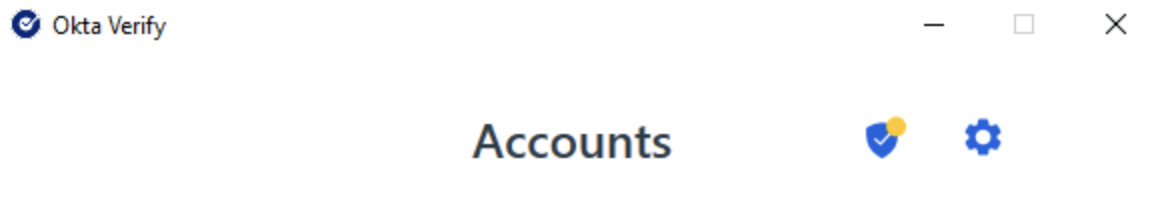
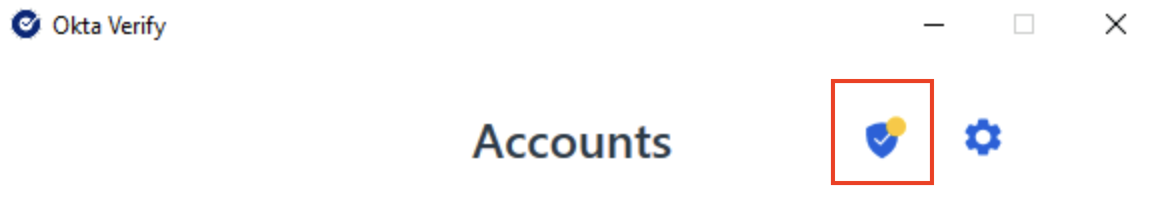
Marc and Keith - picky like cactus

Changed region(s): [[0.715, 0.375, 0.8083, 0.8942]]

diff --git a/04-security.md b/04-security.md
@@ -2,14 +2,6 @@ In this lab, you will unlock the combined power of Okta Verify and FastPass. You
 
 ## Setup Okta FastPass on the Virtual Desktop
 
-### Download Okta Verify on your Virtual Dekstop
-
-1. In the Okta Admin Console, select **Settings** > **Downloads**.
-1. Scroll down to **Okta Verify for Windows (.exe)** and click **Download General Availability**.
-1. Sign out of Okta and close the browser.
-
->**Tip:** Did you sign out of the Okta Admin Console?. I tend to forget sometimes.
-
 ### Install Okta Verify on your Virtual Desktop
 
 1. Open the **Okta Verify Setup** executable located in the Download folder shortcut on the desktop.
@@ -30,6 +22,7 @@ In this lab, you will unlock the combined power of Okta Verify and FastPass. You
 This will open your Okta tenant's sign-in page.
 
 1. Sign in with your **New Employee** username and password.
+1. Close the
 
 ## Configure Security Policies and FastPass
 
@@ -76,9 +69,9 @@ This will open your Okta tenant's sign-in page.
 ### Experience an Employee Passwordless Login
 
 1. In the Virtual Desktop, launch a Chrome browser window using the Guest profile.
-1. Enter your Okta tenant URL in the browser. You will be automatically authenticated to your End-User Dashboard.
-1. Sign out of your Okta tenant.
-1. At the Okta login, click **Sign in with Okta FastPass** . You will be signed in to the End-User Dashboard, no password required.
+1. Enter your Okta tenant URL in the browser. You will be automatically authenticated to your End-User Dashboard. No prompts, no typing, pure magic!
+1. Sign out of Okta.
+1. At the Okta login, click **Sign in with Okta FastPass**. Again, you will be signed in to the End-User Dashboard, no password required.
 
 ## Set Up User Behavioral Analytics
 
@@ -128,15 +121,15 @@ With device assurance policies you can check security-related device attributes 
 1. In the **High Security Apps** policy, select the **Applications** tab.
 1. Click **Add app**.
 1. Select the **Marketo** app, and then select the **Sign On** tab.
-1. For **Marketo**, click **Add**, and then click **Done**.
+1. For **Marketo**, click **Add**, and then click **Ok**.
 
     ![alt_text](images/011/auth_policy_high_security_apps_marketo_600.png "high security policy")
 
 ### Test the Device Assurance Policy
 
-The lab Virtual Desktops are running Windows 10.
+1. In the Okta Verify app **Accounts** page, click the device health icon to verify that your OS version is version 10.
 
-1. In the Okta Verify app **Accounts** page, click the device health icon. EDIT THIS
+    ![alt_text](images/011/fastpass_healthcheck_button_240.png "")
 
 1. In your Virtual Desktop environment, sign in as your new employee.
 1. Select the **Marketo** app. You will be denied.

diff --git a/05-governance.md b/05-governance.md
@@ -99,7 +99,7 @@ A request type can consist of multiple steps including Questions, Tasks, Approva
 
 ### As the New Employee, request access to an app
 
-1. Open a new Chrome window using the Guest profile
+1. In the Virtual Desktop, open a new Chrome window using the Guest profile.
 1. Sign in to your Okta tenant as the New Employee.
 1. In the End-User Dashboard, open the **Okta Access Requests** app.
 1. In the App Catalog, locate **Navan**, and then click **Request access**.
@@ -266,7 +266,7 @@ To verify that a certification campaign was created by the flowpack, you will ne
 
 1. In the Okta Admin Console select **Identity Governance** > **Access Certifications**.
 1. Verify that there is **Campaign** whose name starts with **Title Change:**.
-1. Click on the **Title Change:**campaign to see an overview of the campaign.
+1. Click on the **Title Change:** campaign to see an overview of the campaign.
 
 The page provides an overview of the campaign, the progress of the campaign, and the items to be reviewed. An administrator can use this page to manage the execution of a campaign. They can see the progress and any items still outstanding. They can reassign one or more items. They can also prematurely end the campaign.
 

diff --git a/01-introduction.md b/01-introduction.md
@@ -1,6 +1,6 @@
 ## Welcome
 
-*Lab guide version: 0.10.17.02*
+*Lab guide version: 0.10.18.01*
 
 Step into the Future of Workforce Identity Management with Okta!
 
@@ -34,7 +34,7 @@ As part of the provisioning process for your Okta Workforce Identity Cloud tenan
       |![virtual desktop](images/011/launch_virtual_desktop.png "Launch VD")| This will take about 10 minutes, so please sit back and enjoy today's featured presentation.|
 
 3. Copy this code block.
-```iex (iwr https://raw.githubusercontent.com/keithledgerwood/WICLab-guide/dev/labvm/config.ps1).Content```
+```iex (iwr https://raw.githubusercontent.com/keithledgerwood/WICLab-guide/main/labvm/config.ps1).Content```
 
 4. In the Virtual Desktop, open PowerShell, and then paste and run the code block.
 

diff --git a/03-o365-integration.md b/03-o365-integration.md
@@ -145,7 +145,7 @@ You will now assign the new employee to the *App-Office365-ProPlus* group. This 
 
 1. Find your *new employee*, and then click the **+** icon on the right to assign them to the group.
 
-    ![alt_text](/images/011/group_assign_user_600.png "assign user")
+    ![alt_text](images/011/group_assign_user_600.png "assign user")
 
 1. Click **Done**.
 
@@ -165,7 +165,7 @@ In your **Virtual Desktop**, test single sign-on to Microsoft Office 365 for you
 
 1. Click **Yes** to stay signed in.
 1. In the top-right corner of the page, click the identity icon.
-1. Click **Sign out** to clear the session.
+1. Click **Sign out** to clear the session, and then close the browser tab.
 
     ![alt_text](images/009/image045_600.png "image_tooltip")
 

diff --git a/02-onboard-employee.md b/02-onboard-employee.md
@@ -108,7 +108,7 @@ In this section you will enable inbound provisioning from BambooHR to Okta.
 
 1. In the Admin Console select  **Directory** > **People** to verify that your new employee was successfully imported with a status of *Pending user action*.
 2. Select the new employee to view their **Assigned Applications:** *Marketo*, *ServiceNow*, *Okta Access Requests*, and *BambooHR*.
-3. Select the **Groups** tab to view their group memberships of *Everyone*, *Marketing (from BambooHR)*, and *Digital Marketing*.
+3. Select the **Groups** tab to view their group memberships of *Everyone*, *Marketing*, and *Digital Marketing*.
 4. Select the **Profile** tab to view their imported attributes.
 
 ## Retrieve New Employee Activation Email

diff --git a/06-lcm-mover-leaver.md b/06-lcm-mover-leaver.md
@@ -25,9 +25,9 @@ In the Add Job Information dialog, select a different department, and then click
 
 ### Verify changes to Okta End-user Dashboard
 
-1. Open a new browser window that is not signed into Okta.
-2. Enter your Okta tenant URL in the browser.
-3. Authenticate as your new employee.
+In the Virtual Desktop, open a new Chrome window using the Guest profile.
+
+1. Sign in to your Okta tenant as the New Employee.
 4. Notice that you no longer have access to **Marketo**, but you do have access to **Salesforce**. Your app assignments changed based on the change in your group membership.
 
 |||

diff --git a/00-overview.md b/00-overview.md
@@ -1,6 +1,6 @@
 # Okta **WIC-Labs**
 
-*Lab guide version: 0.10.17.02*
+*Lab guide version: 0.10.18.01*
 
 ![Overview](images/011/lab_overview_image.png "Lab Diagram")
 
